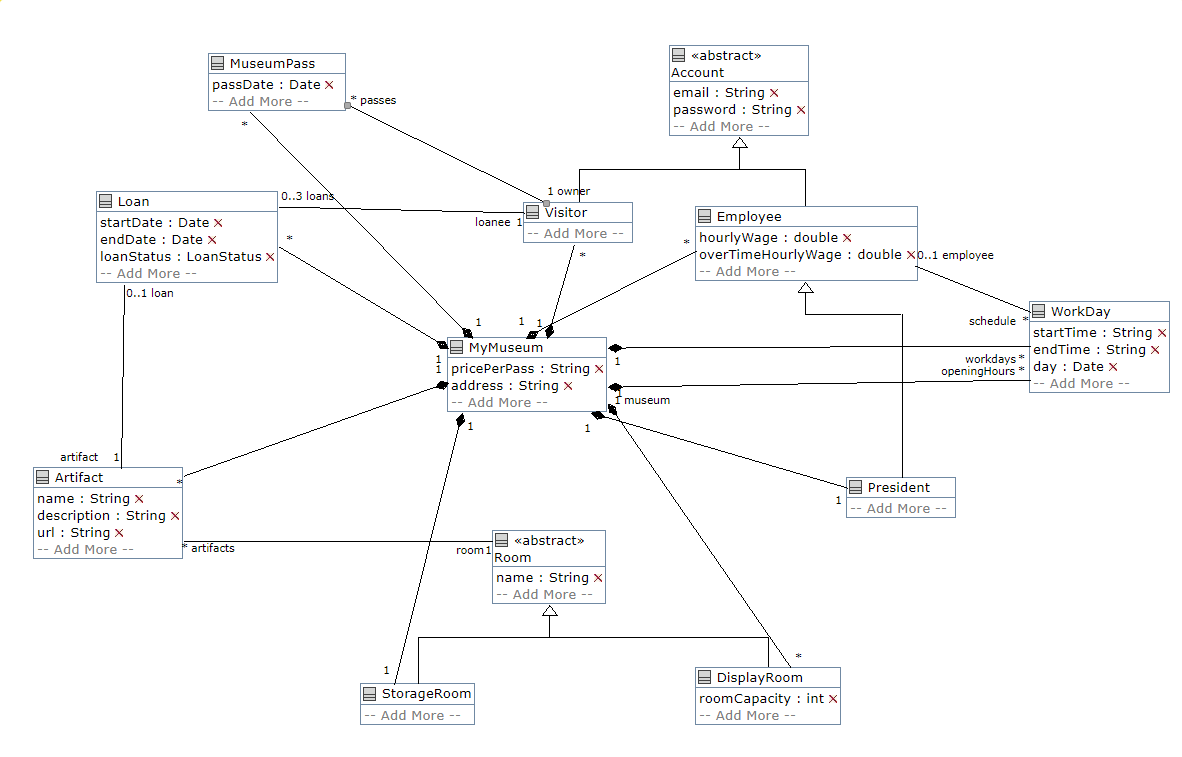
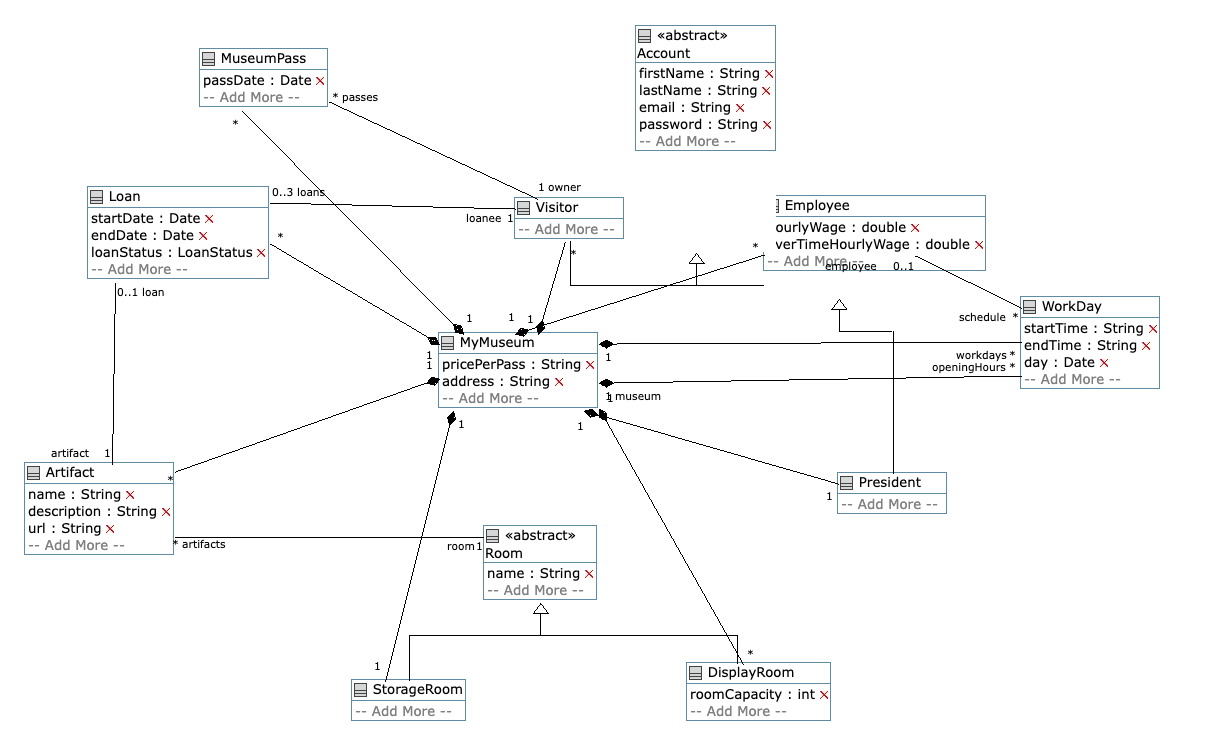
changes in the account class

diff --git a/src/main/java/com/mcgill/mymuseum/model/Account.java b/src/main/java/com/mcgill/mymuseum/model/Account.java
@@ -1,13 +1,14 @@
-package com.mcgill.mymuseum.model;/*PLEASE DO NOT EDIT THIS CODE*/
-/*This code was generated using the UMPLE 1.31.1.5860.78bb27cc6 modeling language!*/
+package com.mcgill.mymuseum.model;
 
+/*PLEASE DO NOT EDIT THIS CODE*/
+/*This code was generated using the UMPLE 1.31.1.5860.78bb27cc6 modeling language!*/
 
 import javax.persistence.Entity;
 import javax.persistence.GeneratedValue;
 import javax.persistence.Id;
 
 // line 2 "model.ump"
-// line 96 "model.ump"
+// line 98 "model.ump"
 @Entity
 public abstract class Account
 {
@@ -19,16 +20,20 @@ public abstract class Account
   //Account Attributes
   @Id
   @GeneratedValue
-  private Long accountId;
+  private String firstName;
+  private String lastName;
   private String email;
   private String password;
+  private Long accountId;
 
   //------------------------
   // CONSTRUCTOR
   //------------------------
 
-  public Account(String aEmail, String aPassword)
+  public Account(String aFirstName, String aLastName, String aEmail, String aPassword)
   {
+    firstName = aFirstName;
+    lastName = aLastName;
     email = aEmail;
     password = aPassword;
   }
@@ -40,6 +45,22 @@ public abstract class Account
   //------------------------
   // INTERFACE
   //------------------------
+
+  public boolean setFirstName(String aFirstName)
+  {
+    boolean wasSet = false;
+    firstName = aFirstName;
+    wasSet = true;
+    return wasSet;
+  }
+
+  public boolean setLastName(String aLastName)
+  {
+    boolean wasSet = false;
+    lastName = aLastName;
+    wasSet = true;
+    return wasSet;
+  }
 
   public boolean setEmail(String aEmail)
   {
@@ -55,6 +76,16 @@ public abstract class Account
     password = aPassword;
     wasSet = true;
     return wasSet;
+  }
+
+  public String getFirstName()
+  {
+    return firstName;
+  }
+
+  public String getLastName()
+  {
+    return lastName;
   }
 
   public String getEmail()
@@ -74,9 +105,12 @@ public abstract class Account
   public String toString()
   {
     return super.toString() + "["+
+            "firstName" + ":" + getFirstName()+ "," +
+            "lastName" + ":" + getLastName()+ "," +
             "email" + ":" + getEmail()+ "," +
             "password" + ":" + getPassword()+ "]";
   }
+
   public void setAccountId(Long accountId) {
     this.accountId = accountId;
   }
